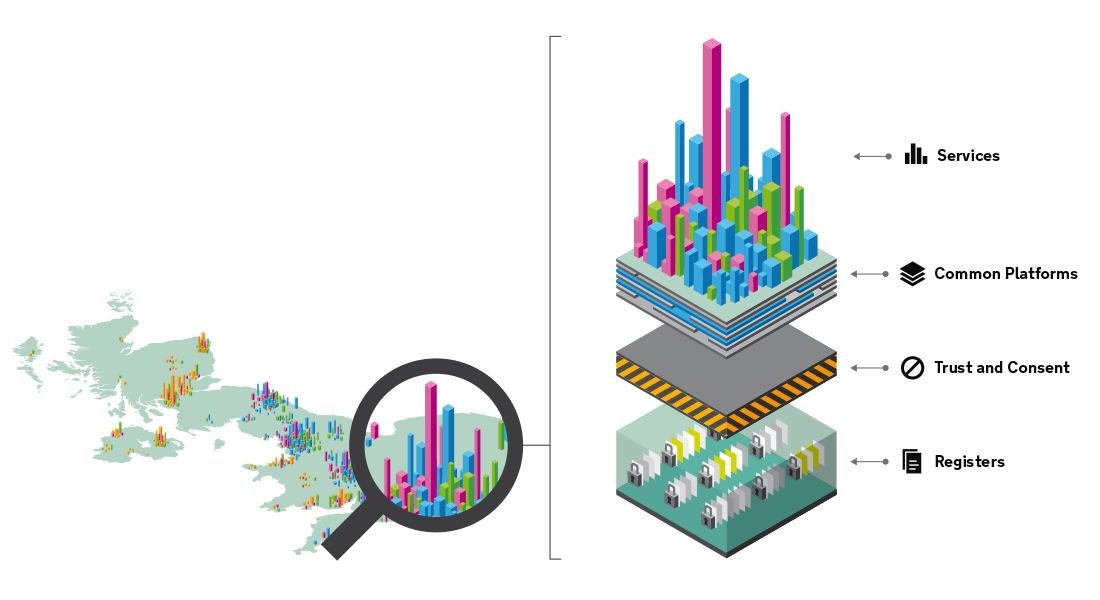
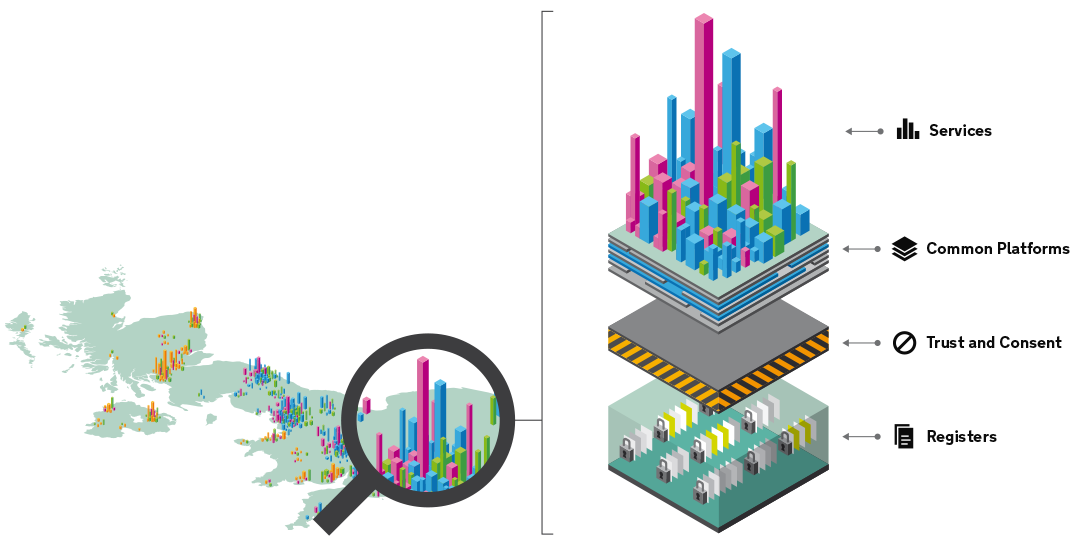
greenpaper updated

Changed region(s): [[0.5536, 0.0312, 1.0, 0.9982], [0.0, 0.0624, 0.5228, 0.9982], [0.7689, 0.2183, 0.9226, 0.2807]]

diff --git a/www/templates/greenpaper/concept.html b/www/templates/greenpaper/concept.html
@@ -14,27 +14,32 @@
         </header>
       </div>
     </div>
-    <div id="ecosystem" class="row">
-        <div class="small-12 large-3 columns">
-            <h2>The ecosystem of services</h2>
-            <p>Omnis iste natus error sit voluptatem accusantium doloremque laudantium, totam rem aperiam, eaque ipsa quae ab illo inventore veritatis et quasi architecto</p>
-        </div>
-
-        <div class="small-12 large-4 columns">
-           <h3>Service types</h3>
-           <ul>
-                <li><span class="light-blue">&#9632;</span> Central government</li>
-                <li><span class="orange">&#9632;</span> Devolved government</li>
-                <li><span class="green">&#9632;</span> Local government</li>
-                <li><span class="pink">&#9632;</span> Commercial</li>
-            </ul>
-        </div>
+    <div class="row ecosystem">
+          <div class="small-12 large-4 columns ecosystem-text">
+              <h2>The ecosystem of services</h2>
+              <p>Omnis iste natus error sit voluptatem accusantium doloremque laudantium, totam rem aperiam, eaque ipsa quae ab illo inventore veritatis et quasi architecto</p>
+              <h3>Service types</h3>
+                <ul>
+                  <li><span class="light-blue">&#9632;</span> Central government</li>
+                  <li><span class="orange">&#9632;</span> Devolved government</li>
+                  <li><span class="green">&#9632;</span> Local government</li>
+                  <li><span class="pink">&#9632;</span> Commercial</li>
+                </ul>
+          
+      </div>
+          <div class="small-12 large-8 columns ecosystem-maps">
+            <img src="{{url_for('static', filename='images/greenpaper/ecosystem1.png')}}"/>
+            </div>   
     </div>
 
-    <div id="infrastructure" class="row">
-      <div class="small-6 large-3 columns">
-          <h2>The infrastructure looks something like this</h2>
-      </div>
+    <div class="row infrastructure">
+        <div class="small-12 large-12 columns">
+            <h2>The infrastructure looks something like this</h2>
+        </div>
+    
+        <div class="small-12 large-12 columns">   
+              <img src="{{url_for('static', filename='images/greenpaper/four-levels-zoom-a.png')}}" />
+        </div>
     </div>
 
     <div id="infrastructure-summary" class="row">

diff --git a/www/static/css/greenpaper.css b/www/static/css/greenpaper.css
@@ -158,7 +158,6 @@ body {
 
 h4 {
   font-size: 27px;
-  margin-top:30px; 
 }
 
 .learnings-list h3 {
@@ -198,7 +197,6 @@ ul.learnings li > a:after {
 
 .blog {
   padding: 30px!important;
-  margin-bottom: 0;
   background: #ddd;
 }
 
@@ -207,19 +205,12 @@ ul.learnings li > a:after {
   background: #ddd;
 }
 
-.read-more {
-  font-weight: 700;
-  font-size: 19px;
-}
-
-
-/*.posts h4 {
+.posts  {
   font-size: 19px;
   font-weight: 700;
   margin-top: 30px;
-  font-family: nta;
 
-}*/
+}
 
 
 .concept-column {
@@ -311,35 +302,39 @@ ul.learnings li > a:after {
   padding: 10px 0;
 }
 
-#ecosystem {
+.ecosystem {
   margin-top: 75px;
   padding: 30px;
   color: #FFFFFF;
-  background: rgba(0, 94, 165, 0.85) url(/static/images/greenpaper/ecosystem.png) no-repeat;
-  background-size: contain;
-  height: 600px;
+  background: rgba(0, 94, 165, 0.85)
 }
 
-#ecosystem h2 {
- font-size: 1.9rem;
+.ecosystem h2 {
+ font-size: 36px;
+ line-height: 40px;
+ margin-top: 15px!important;
 }
 
-#ecosystem h3 {
- font-size: 1.3rem;
+.ecosystem h3 {
+ font-size: 19px;
 }
 
-#ecosystem h2, h3 {
+.ecosystem h2, h3 {
   color: inherit;
   margin-top: 2.5rem;
 }
 
-#ecosystem ul {
+.ecosystem ul {
   list-style: none;
+  font-size: 16px;
+  margin-left: 0;
+  padding-left: 0;
 }
 
-#ecosystem li>span {
-  font-size: 1.6rem;
-  margin-right: 0.4rem;
+.ecosystem li>span {
+  font-size: 19px;
+  margin-right: 10px;
+  line-height: 25px;
 }
 
 span.light-blue {
@@ -358,25 +353,22 @@ span.pink {
   color: #DF62A4;
 }
 
-#infrastructure {
+.infrastructure {
   margin-top: 50px;
   color: #FFFFFF;
-  background: url(/static/images/greenpaper/four-levels-zoom-a.png) no-repeat;
-  background-size: contain;
-  height: 600px;
 }
 
-#infrastructure h2 {
+.infrastructure h2 {
   margin-left: 2.1rem;
   font-size: 1.5rem;
 }
 
-#infrastructure-summary {
+.infrastructure-summary {
   margin-top: 2.3rem;
   text-align: center;
 }
 
-#infrastructure-summary img {
+.infrastructure-summary img {
     width: 100px;
 }
 
